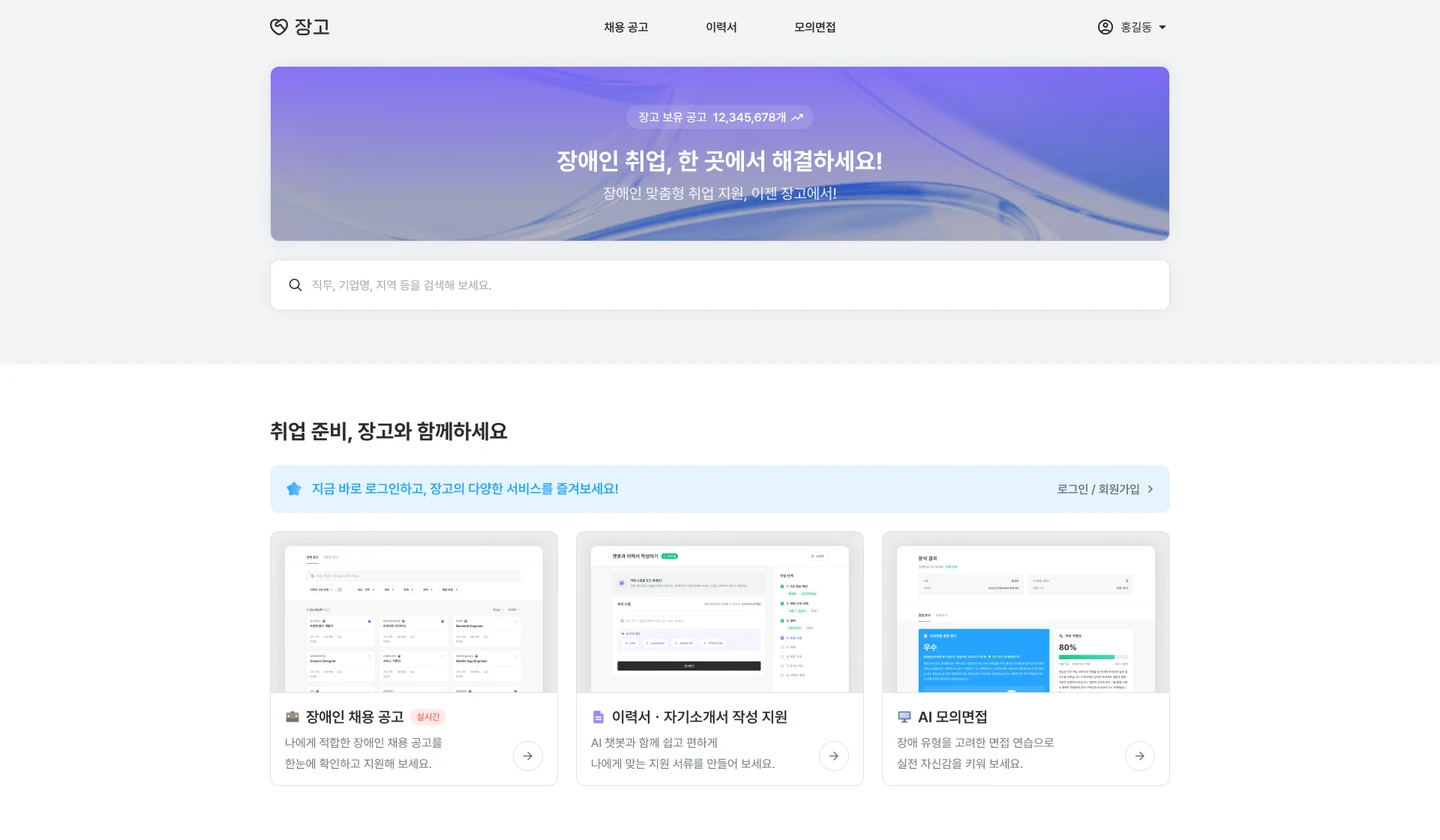
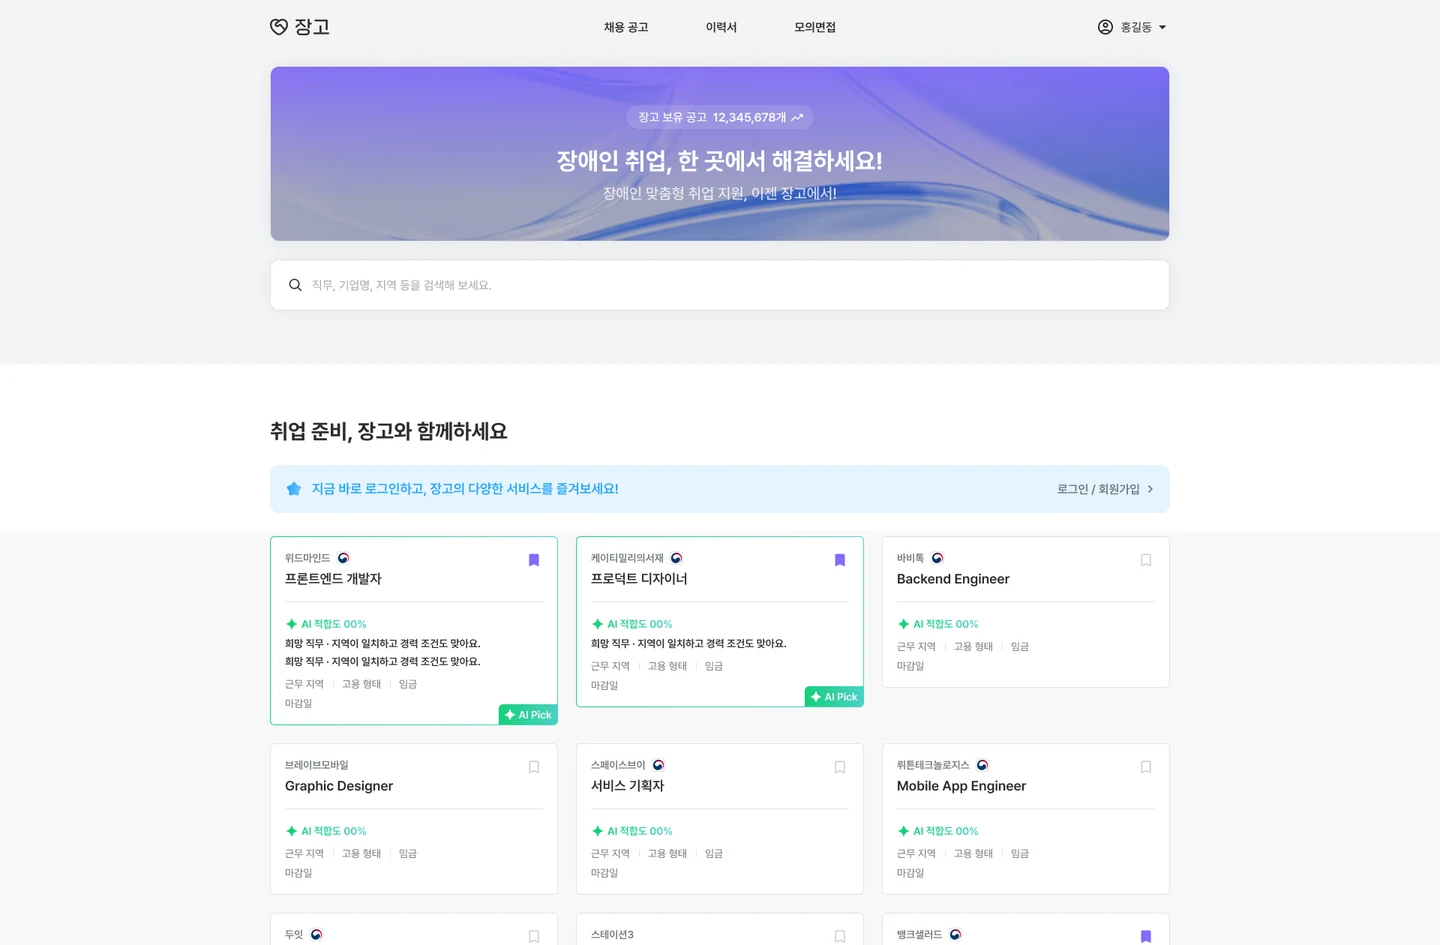
인사말 이모지 삭제·마무리 문구 느낌표, 장고 메인 하단을 공고 카드로
- 레고 말풍선: 안녕하세요 임서하입니다(이모지 제거), 읽어주셔서 감사합니다!
- 장고 메인: 로그인 안내 띠 아래를 Figma 채용 공고 카드(AI 적합도)로 합성

diff --git a/index.html b/index.html
@@ -547,7 +547,7 @@ html.lock{overflow:hidden}
     </div>
     <div class="lego-slot" aria-hidden="true">
       <div class="lego" id="lego" data-state="hero" title="임서하">
-        <div class="lg-bubble" id="lgBubble">안녕하세요 👋<br>임서하입니다.</div>
+        <div class="lg-bubble" id="lgBubble">안녕하세요<br>임서하입니다.</div>
         <div class="lg-fig"><div class="lg-tilt">
           <div class="lg-p lg-legs" style="--i:0;position:absolute;inset:0;z-index:1">
             <img class="lg-part" style="left:23.9%;top:55.31%;width:75.49%" src="assets/lego_studs.webp" alt="" draggable="false">
@@ -829,7 +829,7 @@ var P = [
  missing:['기능명세서','IA','WBS']
 },
 {
- id:'janggo', main:{src:'assets/main_janggo.webp',w:1440,h:840,cap:'장고 구직자 홈 — 공고 검색·채용공고·이력서·AI 모의면접',date:'Figma 디자인 · PC'}, no:'006', name:'장고', tag:'서울형 R&D 사업 · B2G', period:'2026.04 – 2026.09', ac:'#9a63ff',
+ id:'janggo', main:{src:'assets/main_janggo.webp',w:1440,h:945,cap:'장고 구직자 홈 — 공고 검색 + AI 적합도 공고 카드',date:'Figma 디자인 · PC'}, no:'006', name:'장고', tag:'서울형 R&D 사업 · B2G', period:'2026.04 – 2026.09', ac:'#9a63ff',
  cv:{role:'단독 — 기획 전담 + 인증·검증 문서 총괄',scope:'하이어 정책 이관 · 요구사항 v2.0 · 기능명세 v2.0 · IA 3도메인 · ISO/IEC 25023 사용성 검증 · TTA 증빙',out:'사용성 검증 <mark>176건</mark>으로 기획-구현 불일치(60초 vs 15초) 적발·수정'},
  stamp:'단독', status:'과제 완료 (2026-09-16 최종보고) · 서비스 단계 확인 필요',
  one:'장애인 취업지원 AI 플랫폼 R&D 시제품. 중단된 하이어의 확정 정책을 국가과제 요건(정량지표·ISO 검증·AI 신뢰성 증빙)에 맞춰 재설계·이관하고, 인증 대응 문서를 총괄했습니다.',
@@ -1282,7 +1282,7 @@ P.forEach(function(p,i){ stack.appendChild(buildCard(p,i)); });
     var lego = document.getElementById('lego'), slot = document.querySelector('.lego-slot'), bub = document.getElementById('lgBubble');
     if(!lego || !slot) return;
     var W = 183, H = 320;
-    var TXT = {hero:'안녕하세요 👋\n임서하입니다.', work:'설계도 보는 중', way:'예외 찾는 중', contact:'읽어주셔서 감사합니다.'};
+    var TXT = {hero:'안녕하세요\n임서하입니다.', work:'설계도 보는 중', way:'예외 찾는 중', contact:'읽어주셔서 감사합니다!'};
     var secs = [['work', document.getElementById('work')], ['way', document.getElementById('way')], ['contact', document.getElementById('contact')]];
     var state = 'hero', docked = false, ticking = false, bubT = null;
     function mob(){ return window.innerWidth <= 900; }
